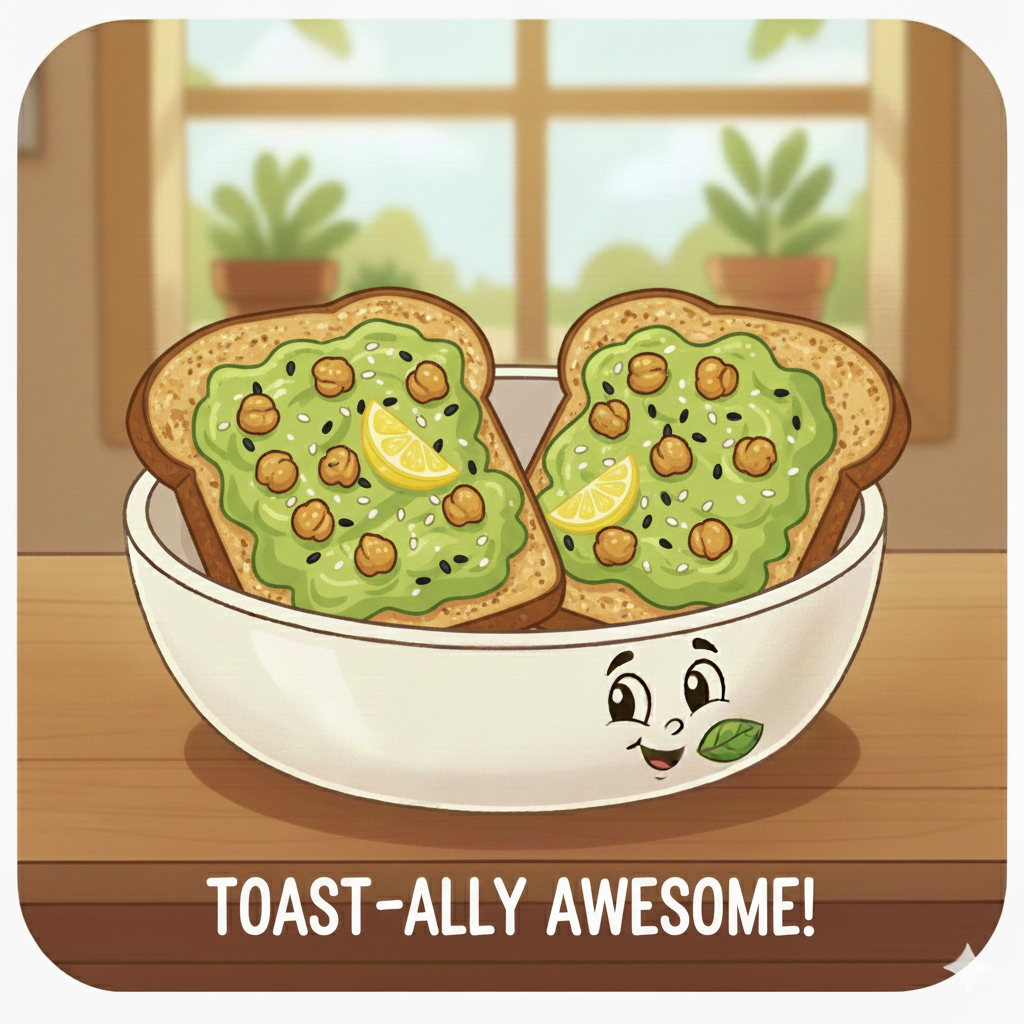
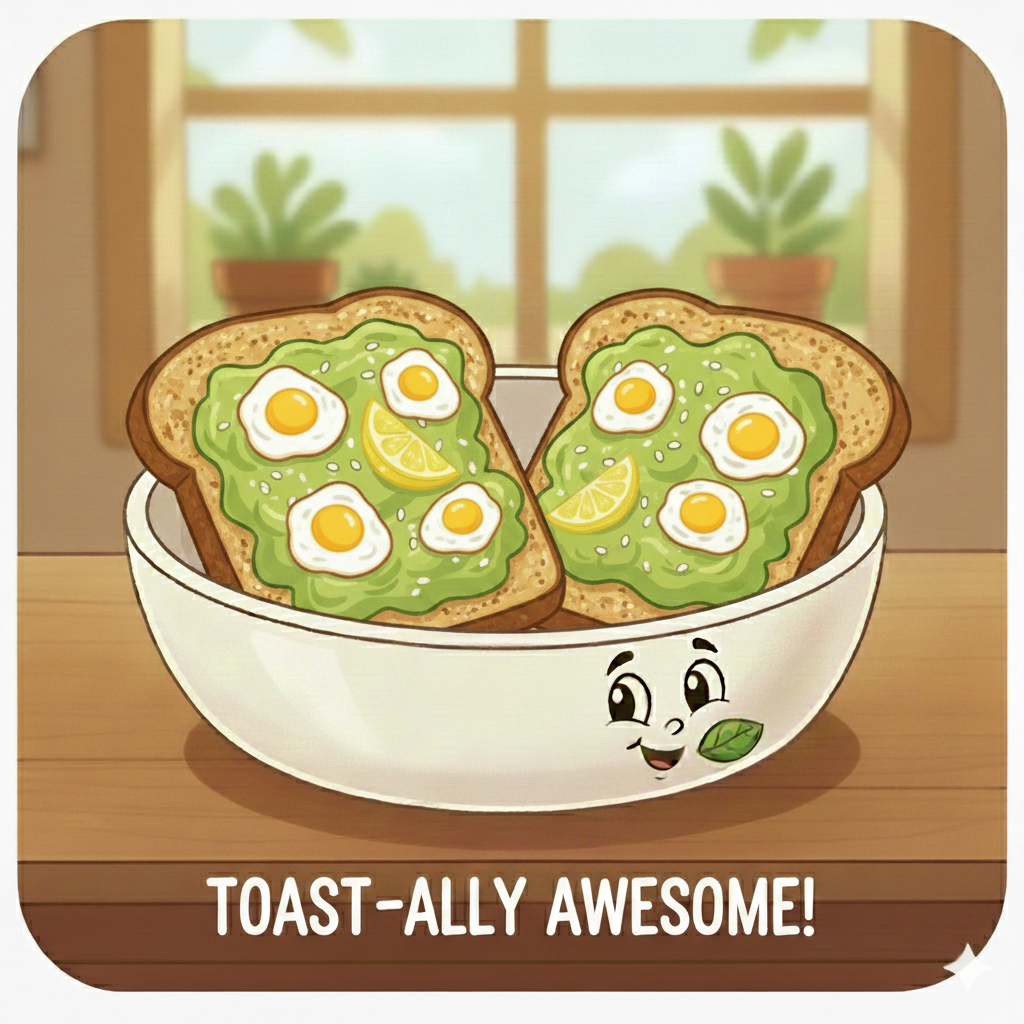
feat: añadir imágenes desde Unsplash a todas las recetas existentes

Changed region(s): [[0.2188, 0.3438, 0.5, 0.5938], [0.5625, 0.3438, 0.8125, 0.5625]]

diff --git a/recipe.html b/recipe.html
@@ -134,11 +134,13 @@
   <script src="https://stackpath.bootstrapcdn.com/bootstrap/4.3.1/js/bootstrap.bundle.min.js"></script>
 
   <script>
-    const recipes = [
+
+      const recipes = [
       {
         title: "Tacos de Coliflor",
         desc: "Crujientes y picantes, perfectos para cenas rápidas.",
-        img: "images/recipe-1.png", 
+        img: "https://images.unsplash.com/photo-1565299585323-38d6b0865b47?w=500&h=400&fit=crop", 
+        originalImg: "images/recipe-1.png",
         type: "Vegano",
         meta: "⏱ 25 min | Fácil",
         ingredients: ["1 coliflor pequeña", "Tortillas de maíz", "Salsa Buffalo", "Aguacate", "Cilantro"],
@@ -147,7 +149,8 @@
       {
         title: "Lasaña de Espinacas",
         desc: "Capas de sabor con queso ricotta y espinacas frescas.",
-        img: "images/recipe-2.png", 
+        img: "https://images.unsplash.com/photo-1574894709920-11b28e7367e3?w=500&h=400&fit=crop", 
+        originalImg: "images/recipe-2.png",
         type: "Vegetariano",
         meta: "⏱ 45 min | Media",
         ingredients: ["Placas de pasta", "500g Espinacas", "Ricotta", "Salsa de tomate", "Mozzarella"],
@@ -156,7 +159,8 @@
       {
         title: "Bowl de Garbanzos",
         desc: "Proteína vegetal con un toque mediterráneo.",
-        img: "images/recipe-3.png", 
+        img: "https://images.unsplash.com/photo-1512621776951-a57141f2eefd?w=500&h=400&fit=crop", 
+        originalImg: "images/recipe-3.png",
         type: "Vegano",
         meta: "⏱ 15 min | Muy Fácil",
         ingredients: ["Garbanzos cocidos", "Pepino", "Tomates", "Tahini", "Aceitunas"],
@@ -165,7 +169,8 @@
       {
         title: "Hamburguesa de Lentejas",
         desc: "Textura increíble y mucho sabor ahumado.",
-        img: "images/recipe-4.png", 
+        img: "https://images.unsplash.com/photo-1520072959219-c595dc870360?w=500&h=400&fit=crop", 
+        originalImg: "images/recipe-4.png",
         type: "Vegano",
         meta: "⏱ 30 min | Media",
         ingredients: ["2 tazas de lentejas cocidas", "Cebolla", "Ajo", "Pan rallado", "Comino"],
@@ -174,7 +179,8 @@
       {
         title: "Risotto de Hongos",
         desc: "Cremoso, elegante y lleno de umami.",
-        img: "images/recipe-5.png",
+        img: "https://images.unsplash.com/photo-1476124369491-e7addf5db371?w=500&h=400&fit=crop",
+        originalImg: "images/recipe-5.png",
         type: "Vegetariano",
         meta: "⏱ 40 min | Alta",
         ingredients: ["Arroz Arborio", "Champiñones", "Caldo de verduras", "Parmesano", "Vino blanco"],
@@ -183,7 +189,8 @@
       {
         title: "Curry de Garbanzos",
         desc: "Un viaje a la India en cada bocado.",
-        img: "images/recipe-6.png",
+        img: "https://images.unsplash.com/photo-1588166524941-3bf61a9c41db?w=500&h=400&fit=crop",
+        originalImg: "images/recipe-6.png",
         type: "Vegano",
         meta: "⏱ 20 min | Fácil",
         ingredients: ["Garbanzos", "Leche de coco", "Curry en polvo", "Espinacas", "Arroz Basmati"],
@@ -192,25 +199,36 @@
       {
         title: "Pasta al Pesto Casero",
         desc: "Clásico italiano con albahaca fresca.",
-        img: "images/recipe-7.png",
+        img: "https://images.unsplash.com/photo-1473093295043-cdd812d0e601?w=500&h=400&fit=crop",
+        originalImg: "images/recipe-7.png",
         type: "Vegetariano",
         meta: "⏱ 15 min | Fácil",
         ingredients: ["Espaguetis", "Albahaca", "Piñones", "Aceite de oliva", "Ajo"],
         steps: "Tritura albahaca, ajo, piñones y aceite. Mezcla con la pasta recién cocida y añade queso al gusto."
       },
       {
-        title: "Berenjenas Rellenas",
-        desc: "Deliciosas berenjenas gratinadas al horno.",
-        img: "images/recipe-8.png",
-        type: "Vegetariano",
-        meta: "⏱ 40 min | Media",
-        ingredients: ["2 Berenjenas", "Pimientos", "Cebolla", "Queso rallado", "Tomate frito"],
-        steps: "Vacía las berenjenas y saltea la pulpa con verduras. Rellena las cáscaras, pon queso encima y hornea hasta dorar."
-      },
+  title: "Quinoa con Verduras Asadas",
+  desc: "Ligera, nutritiva y llena de color.",
+  img: "https://images.pexels.com/photos/1640777/pexels-photo-1640777.jpeg?auto=compress&cs=tinysrgb&dpr=2&h=800&w=800",
+  originalImg: "images/recipe-8.png",
+  type: "Vegano",
+  meta: "⏱ 30 min | Fácil",
+  ingredients: [
+    "1 taza de quinoa",
+    "Calabacín",
+    "Zanahoria",
+    "Pimiento rojo",
+    "Aceite de oliva",
+    "Especias al gusto"
+  ],
+  steps: "Cocina la quinoa según las instrucciones. Asa las verduras al horno con aceite y especias. Mezcla todo y sirve caliente."
+},
+
       {
         title: "Shakshuka de Tofu",
         desc: "Desayuno o cena nutritiva y especiada.",
-        img: "images/recipe-9.png",
+        img: "https://images.unsplash.com/photo-1590412200988-a436970781fa?auto=format&fit=crop&q=80&w=800",
+        originalImg: "images/recipe-9.png",
         type: "Vegano",
         meta: "⏱ 25 min | Fácil",
         ingredients: ["Tofu firme", "Pimientos rojos", "Tomate triturado", "Comino", "Pimentón"],
@@ -219,7 +237,8 @@
       {
         title: "Ensalada Caprese Especial",
         desc: "Refrescante con un toque de reducción balsámica.",
-        img: "images/recipe-10.png",
+        img: "https://images.unsplash.com/photo-1592417817098-8fd3d9eb14a5?w=500&h=400&fit=crop",
+        originalImg: "images/recipe-10.png",
         type: "Vegetariano",
         meta: "⏱ 10 min | Muy Fácil",
         ingredients: ["Tomate", "Mozzarella fresca", "Albahaca", "Aceite Balsámico"],
@@ -228,20 +247,22 @@
       {
         title: "Bowl de Falafel Crujiente",
         desc: "Sabor mediterráneo con falafel casero y salsa tahini.",
-        img: "images/recipe-11.png",
+        img: "https://images.unsplash.com/photo-1547058881-aa0edd92aab3?auto=format&fit=crop&q=80&w=800",
+        originalImg: "images/recipe-11.png",
         type: "Vegano",
         meta: "⏱ 20 min | Fácil",
         ingredients: ["Falafel", "Hummus", "Pepino", "Tomates cherry", "Salsa Tahini"],
         steps: "Hornea o fríe los falafels hasta que estén dorados. Sírvelos sobre una base de vegetales frescos, añade una porción de hummus y rocía con salsa tahini."
       },
       {
-        title: "Toasts de Aguacate y Garbanzos",
+        title: "Toasts de Aguacate y huevos",
         desc: "Desayuno o cena llena de proteína y grasas saludables.",
-        img: "images/recipe-12.png",
-        type: "Vegano",
+        img: "https://images.unsplash.com/photo-1525351484163-7529414344d8?w=500&h=400&fit=crop",
+        originalImg: "images/recipe-12.png",
+        type: "Vegetariano",
         meta: "⏱ 15 min | Muy Fácil",
-        ingredients: ["Pan integral", "Aguacate", "Garbanzos crujientes", "Limón", "Semillas de sésamo"],
-        steps: "Tuesta el pan y unta el aguacate machacado con limón y sal. Añade garbanzos (previamente salteados con especias) por encima y espolvorea sésamo."
+        ingredients: ["Pan integral", "Aguacate", "Huevos", "Limón", "Semillas de sésamo"],
+        steps: "Tuesta el pan y unta el aguacate machacado con limón y sal. Añade huevos(previamente salteados con especias) por encima y espolvorea sésamo."
       }
     ];
 
@@ -275,7 +296,8 @@
     function viewDetails(index) {
       const r = recipes[index];
       document.getElementById('modalTitle').innerText = r.title;
-      document.getElementById('modalImg').src = r.img;
+      // Usa la imagen original cuando se abre el modal
+      document.getElementById('modalImg').src = r.originalImg || r.img;
       document.getElementById('modalMeta').innerText = r.meta;
       document.getElementById('modalSteps').innerText = r.steps;
       

diff --git a/css/style.css b/css/style.css
@@ -1332,7 +1332,6 @@ body {
 
 .search_box {
   max-width: 600px;
-  margin: 20px auto;
   display: flex;
   gap: 10px;
 }
